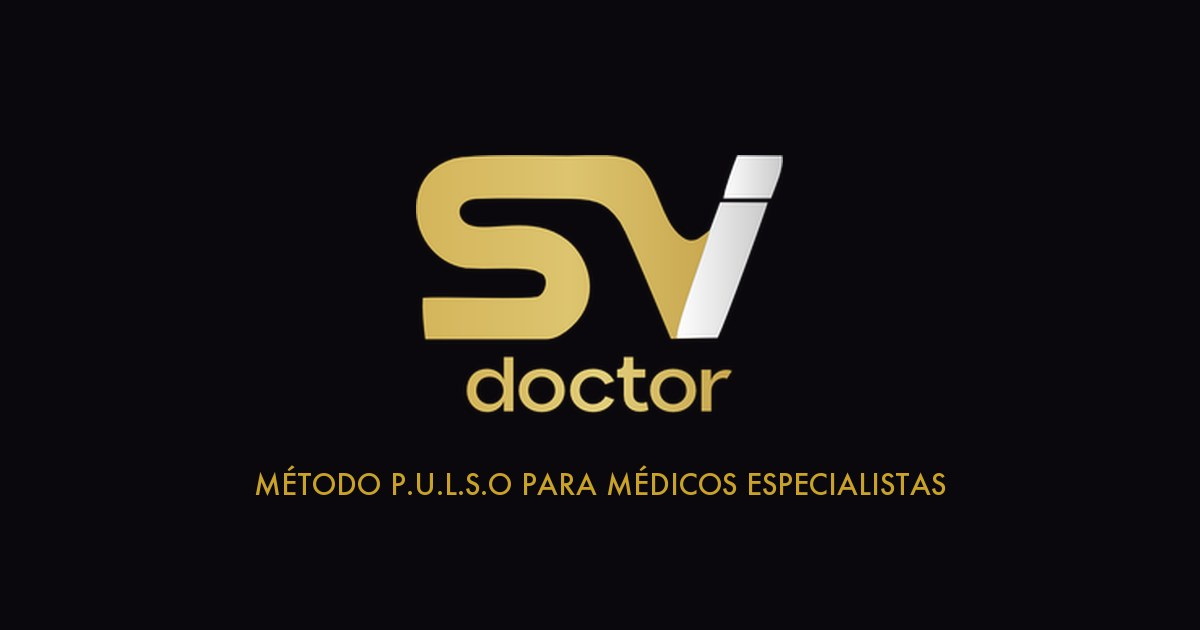
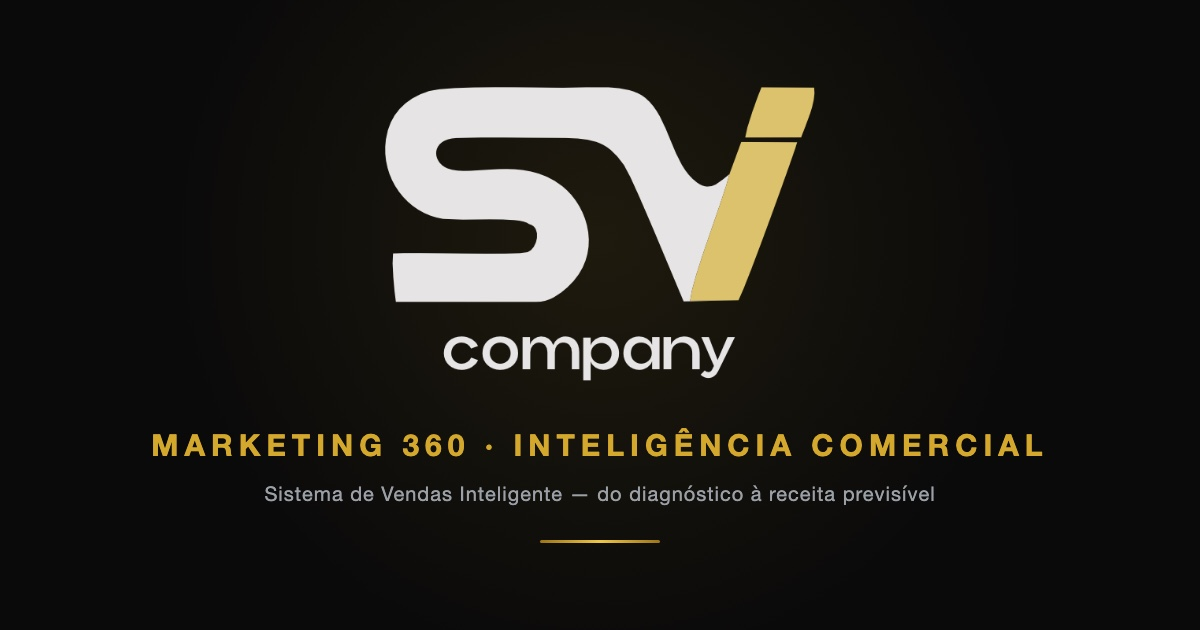
Corrige Instagram e og-image de compartilhamento
- og-image: troca marca SVI Doctor descontinuada pela SVI Company atual (?v=2 fura cache imutavel)
- Instagram empresa: svicompany -> svicompanyy (schema + rodape)
- Instagram fundador: joaofalcao -> falcao.svi

Changed region(s): [[0.1233, 0.1206, 0.8633, 0.8143], [0.4625, 0.8444, 0.555, 0.8746]]

diff --git a/index.html b/index.html
@@ -21,7 +21,7 @@
   <meta property="og:description" content="Sistema de Vendas Inteligente. Time interno, método proprietário, operação ponta a ponta. Do diagnóstico à receita previsível.">
   <meta property="og:locale" content="pt_BR">
   <meta property="og:site_name" content="SVI Company">
-  <meta property="og:image" content="https://svicompany.com.br/images/og-image.jpg">
+  <meta property="og:image" content="https://svicompany.com.br/images/og-image.jpg?v=2">
   <meta property="og:image:width" content="1200">
   <meta property="og:image:height" content="630">
   <meta property="og:image:alt" content="SVI Company — Marketing 360 e Inteligência Comercial">
@@ -29,7 +29,7 @@
   <meta name="twitter:card" content="summary_large_image">
   <meta name="twitter:title" content="SVI Company — Marketing 360 e Inteligência Comercial">
   <meta name="twitter:description" content="Sistema de Vendas Inteligente. Time interno, método proprietário, operação ponta a ponta.">
-  <meta name="twitter:image" content="https://svicompany.com.br/images/og-image.jpg">
+  <meta name="twitter:image" content="https://svicompany.com.br/images/og-image.jpg?v=2">
 
   <link rel="icon" type="image/png" sizes="32x32" href="images/favicon-32.png">
   <link rel="icon" type="image/png" sizes="64x64" href="images/favicon-64.png">
@@ -51,7 +51,7 @@
     "address": {"@type": "PostalAddress", "addressLocality": "Redenção", "addressRegion": "PA", "addressCountry": "BR"},
     "areaServed": {"@type": "Country", "name": "Brasil"},
     "foundingDate": "2022",
-    "sameAs": ["https://www.instagram.com/svicompany"]
+    "sameAs": ["https://www.instagram.com/svicompanyy"]
   }
   </script>
 
@@ -1414,7 +1414,7 @@
             <a href="https://wa.me/[phone redacted]" class="founder-btn" aria-label="WhatsApp direto com João" target="_blank" rel="noopener">
               <svg width="16" height="16" viewBox="0 0 24 24" fill="currentColor"><path d="M12.04 2C6.58 2 2.13 6.45 2.13 11.91c0 1.75.46 3.45 1.32 4.95L2.05 22l5.25-1.38c1.45.79 3.08 1.21 4.74 1.21 5.46 0 9.91-4.45 9.91-9.91S17.5 2 12.04 2m4.52 12c-.25-.12-1.47-.72-1.69-.81-.23-.08-.39-.12-.56.13-.17.25-.64.81-.78.97-.14.17-.29.19-.54.06-.25-.12-1.05-.39-1.99-1.23-.74-.66-1.23-1.47-1.38-1.72-.14-.25-.02-.38.11-.51.11-.11.25-.29.37-.43.12-.14.17-.25.25-.41.08-.17.04-.31-.02-.43-.06-.12-.56-1.34-.76-1.84-.2-.48-.41-.42-.56-.43-.14 0-.31-.02-.48-.02-.17 0-.43.06-.66.31-.23.25-.87.85-.87 2.07s.89 2.4 1.02 2.57c.12.17 1.75 2.67 4.23 3.74.59.26 1.05.41 1.41.52.59.19 1.13.16 1.56.1.48-.07 1.47-.6 1.67-1.18.21-.58.21-1.07.14-1.18Z"/></svg>
             </a>
-            <a href="https://www.instagram.com/joaofalcao" class="founder-btn" aria-label="Instagram de João Falcão" target="_blank" rel="noopener">
+            <a href="https://www.instagram.com/falcao.svi" class="founder-btn" aria-label="Instagram de João Falcão" target="_blank" rel="noopener">
               <svg width="16" height="16" viewBox="0 0 24 24" fill="none" stroke="currentColor" stroke-width="2"><rect x="2" y="2" width="20" height="20" rx="5"/><path d="M16 11.37A4 4 0 1 1 12.63 8 4 4 0 0 1 16 11.37z"/><line x1="17.5" y1="6.5" x2="17.51" y2="6.5"/></svg>
             </a>
           </div>
@@ -1624,7 +1624,7 @@
           </div>
           <p class="footer-brand-tagline">Sistema de Vendas Inteligente. Marketing 360 com inteligência comercial, sob um único método e um único time.</p>
           <div class="social-row">
-            <a href="https://www.instagram.com/svicompany" target="_blank" rel="noopener" class="social-btn" aria-label="Instagram">
+            <a href="https://www.instagram.com/svicompanyy" target="_blank" rel="noopener" class="social-btn" aria-label="Instagram">
               <svg width="16" height="16" viewBox="0 0 24 24" fill="none" stroke="currentColor" stroke-width="2"><rect x="2" y="2" width="20" height="20" rx="5"/><path d="M16 11.37A4 4 0 1 1 12.63 8 4 4 0 0 1 16 11.37z"/><line x1="17.5" y1="6.5" x2="17.51" y2="6.5"/></svg>
             </a>
             <a href="https://wa.me/[phone redacted]" target="_blank" rel="noopener" class="social-btn" aria-label="WhatsApp">